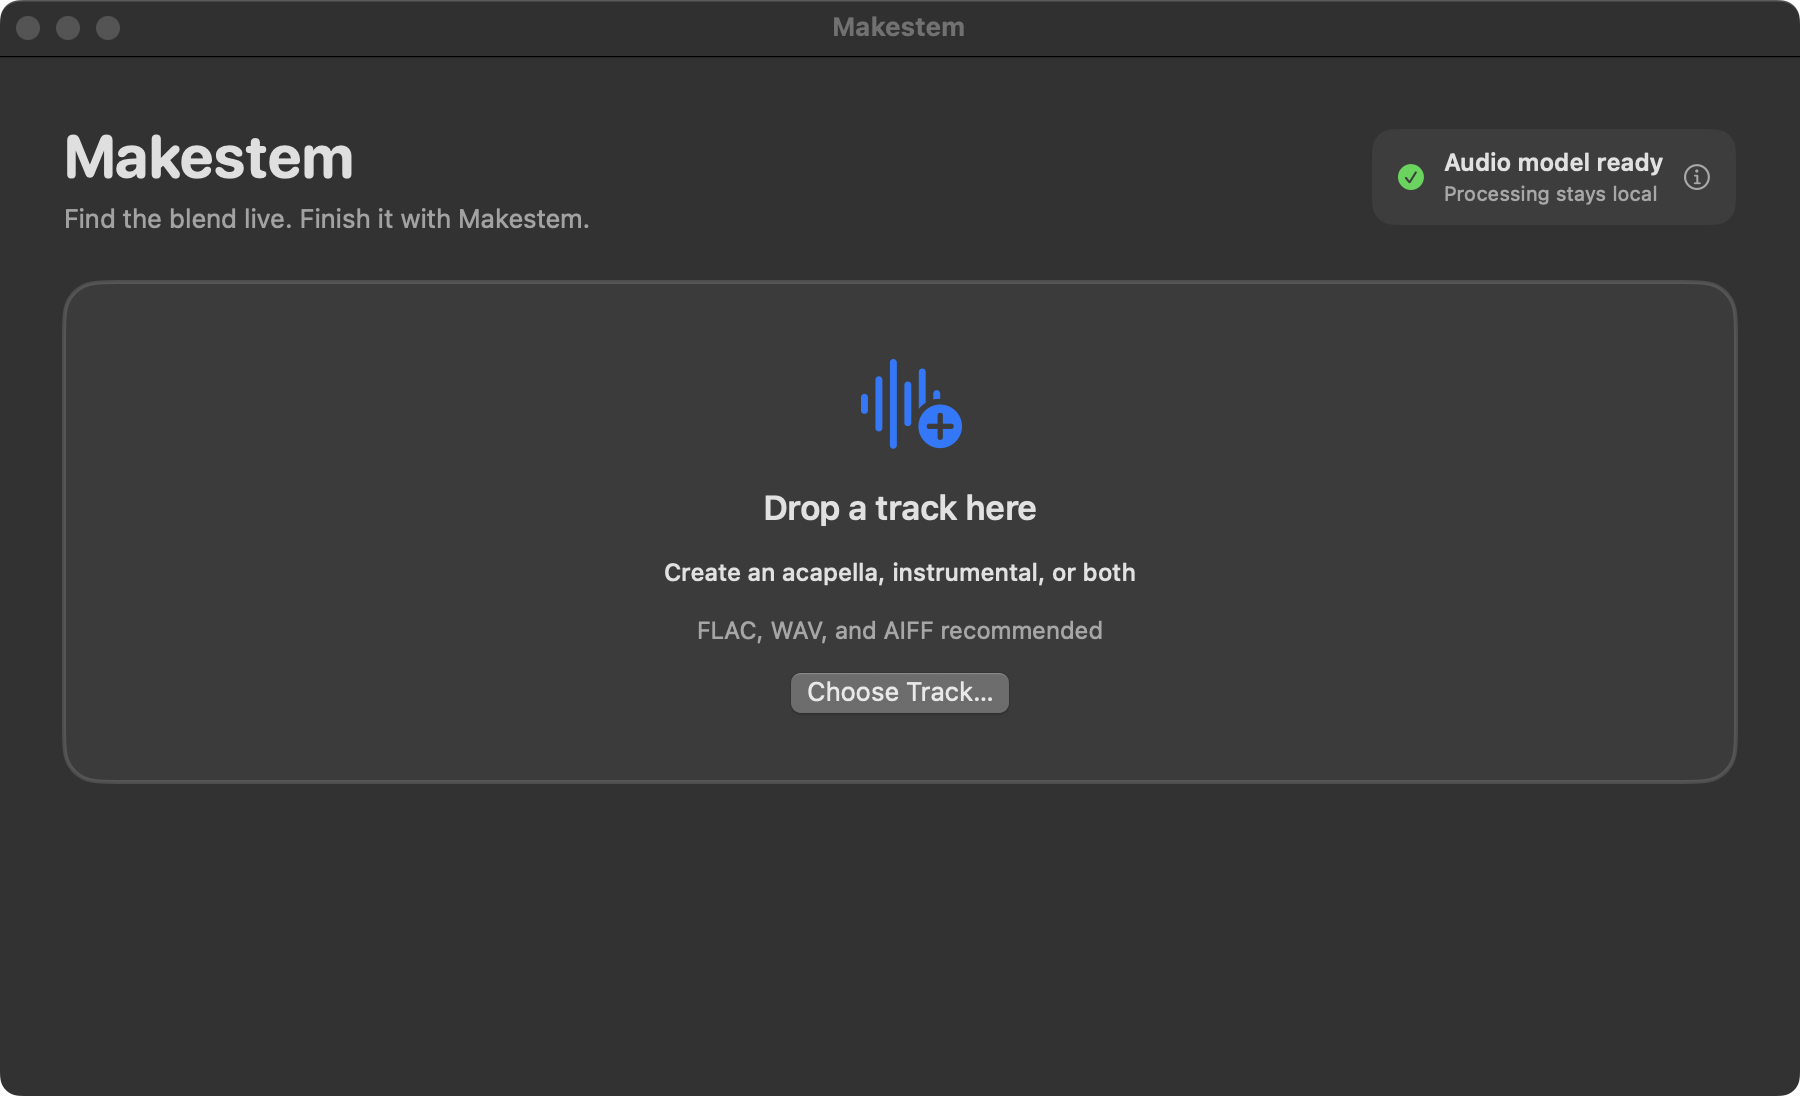
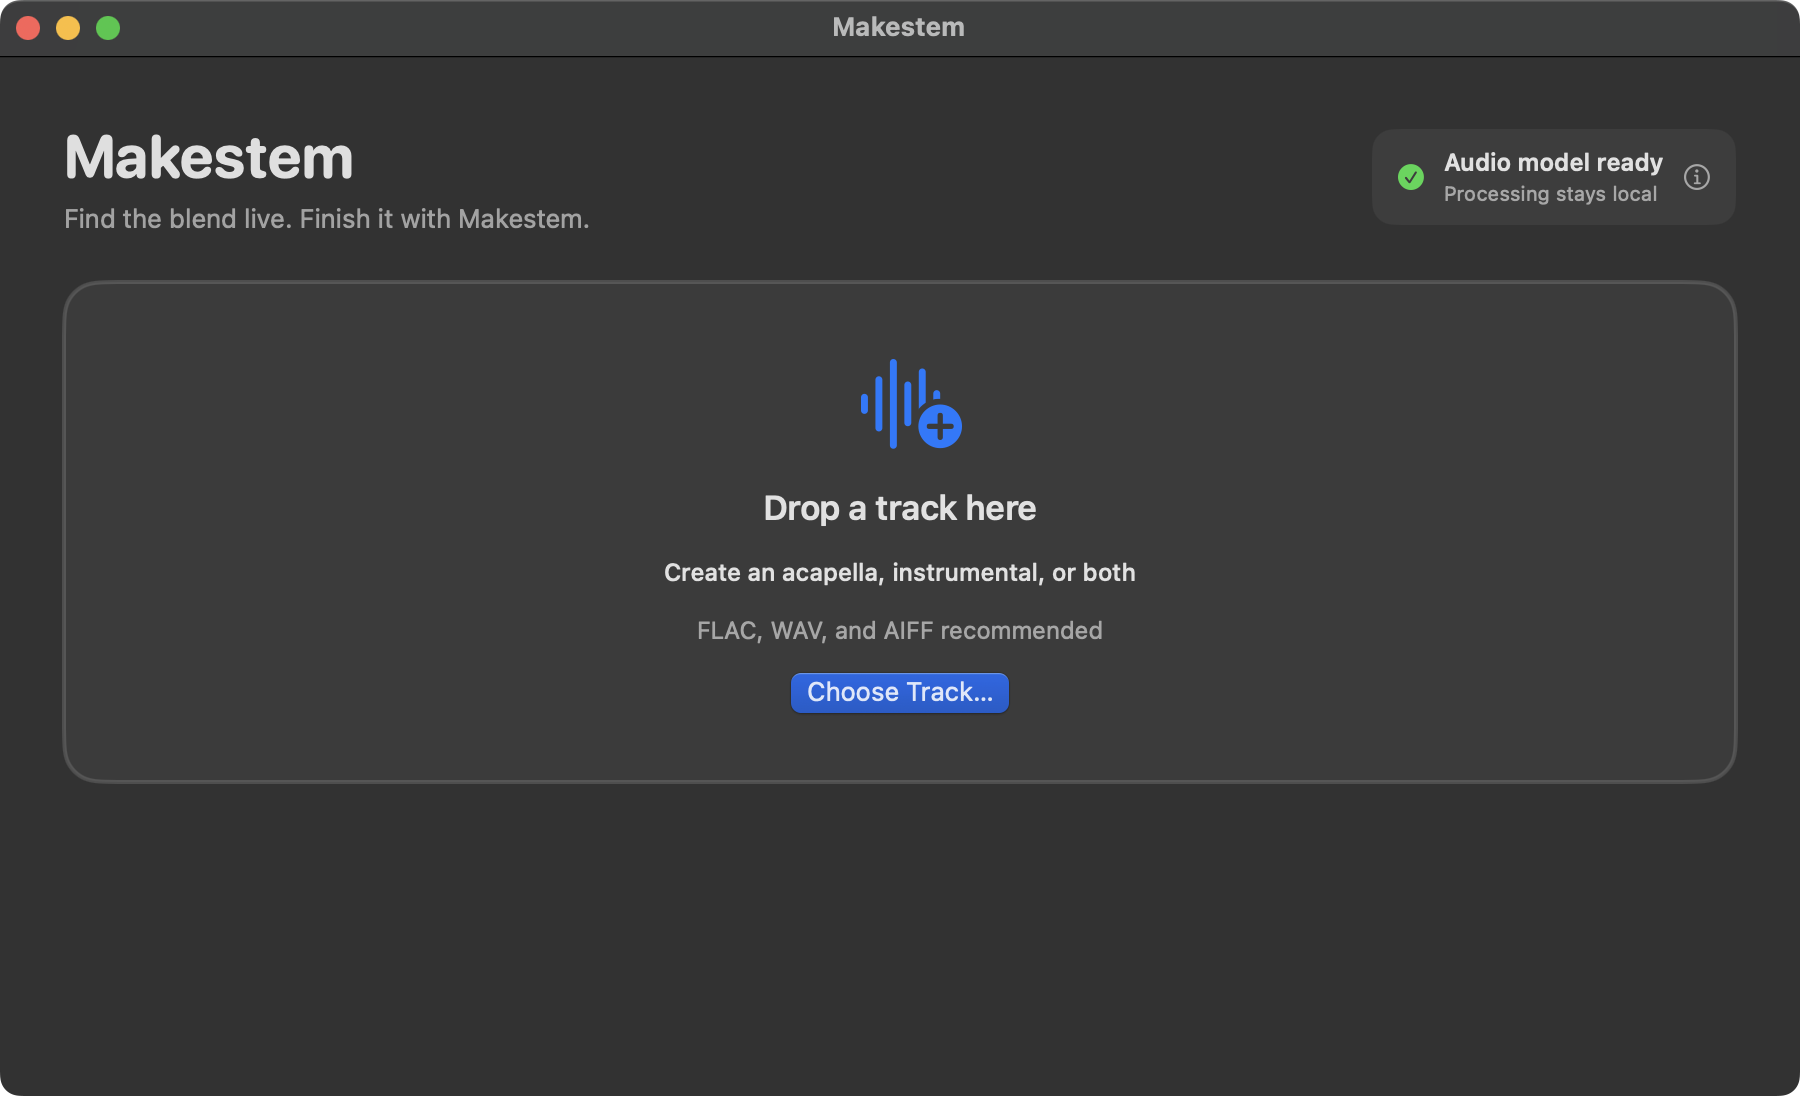
Automate Makestem screenshots
- Add deterministic Debug-only app states
- Capture ready, loaded, and processing windows
- Test and document the screenshot workflow

Changed region(s): [[0.4356, 0.5894, 0.56, 0.6515], [0.4667, 0.0, 0.5289, 0.031], [0.0, 0.0, 0.0622, 0.031]]

diff --git a/macos/MakestemApp.swift b/macos/MakestemApp.swift
@@ -67,11 +67,11 @@ struct ProcessingStatus: Sendable {
     var progressStartedAt: Date?
     var progressBaseline: Int?
 
-    init(stage: String) {
+    init(stage: String, percent: Int? = nil, startedAt: Date = .now) {
         self.stage = stage
-        self.percent = nil
-        self.startedAt = Date()
-        self.phaseStartedAt = Date()
+        self.percent = percent
+        self.startedAt = startedAt
+        self.phaseStartedAt = startedAt
     }
 
     func estimatedRemaining(at now: Date) -> TimeInterval? {
@@ -88,13 +88,24 @@ struct ProcessingStatus: Sendable {
 
 @MainActor
 final class AppModel: ObservableObject {
-    @Published var state: ScreenState = .empty
-    @Published var modelState: ModelState = Engine.modelIsReady ? .ready : .missing
+    @Published var state: ScreenState
+    @Published var modelState: ModelState
     @Published var outputChoice: OutputChoice = .both
     @Published var isDropTarget = false
+    let isScreenshotMode: Bool
     private var currentOperation: EventOperation?
     private var currentOperationID: UUID?
     private var inspectionID: UUID?
+
+    init(
+        state: ScreenState = .empty,
+        modelState: ModelState? = nil,
+        isScreenshotMode: Bool = false
+    ) {
+        self.state = state
+        self.modelState = modelState ?? (Engine.modelIsReady ? .ready : .missing)
+        self.isScreenshotMode = isScreenshotMode
+    }
 
     var isDownloadingModel: Bool {
         if case .downloading = modelState { return true }
@@ -529,9 +540,13 @@ struct AppError: LocalizedError {
 
 struct ContentView: View {
     @Environment(\.accessibilityReduceMotion) private var reduceMotion
-    @StateObject private var model = AppModel()
+    @StateObject private var model: AppModel
     @State private var showsModelInfo = false
     @State private var replacementRequest: ReplacementRequest?
+
+    init(model: AppModel) {
+        _model = StateObject(wrappedValue: model)
+    }
 
     var body: some View {
         VStack(spacing: 24) {
@@ -557,8 +572,8 @@ struct ContentView: View {
         .padding(32)
         .frame(minWidth: 620, idealWidth: 680, minHeight: 520, idealHeight: 600)
         .background(Color(nsColor: .windowBackgroundColor))
-        .animation(reduceMotion ? nil : .smooth(duration: 0.3), value: modelPhase)
-        .animation(reduceMotion ? nil : .smooth(duration: 0.3), value: screenPhase)
+        .animation(reduceMotion || model.isScreenshotMode ? nil : .smooth(duration: 0.3), value: modelPhase)
+        .animation(reduceMotion || model.isScreenshotMode ? nil : .smooth(duration: 0.3), value: screenPhase)
         .alert(
             "Replace existing files?",
             isPresented: Binding(
@@ -920,10 +935,67 @@ private struct ReplacementRequest: Identifiable {
     let outputs: [URL]
 }
 
+#if DEBUG
+extension AppModel {
+    static func screenshotModel(arguments: [String]) -> AppModel? {
+        guard let option = arguments.firstIndex(of: "--screenshot-state"),
+              arguments.indices.contains(option + 1) else { return nil }
+
+        let inspection = Inspection(
+            path: "/Music/Midnight Drive.mp3",
+            artist: "Example Artist",
+            title: "Midnight Drive",
+            format: "MP3",
+            codec: "mp3",
+            durationSeconds: 252,
+            sampleRate: 44_100,
+            channels: 2,
+            bitDepth: nil,
+            lossless: false,
+            sourceBitrateKbps: 192,
+            sourceVbr: false,
+            outputQuality: "192 kbps MP3",
+            readiness: "warning",
+            message: "Compressed source. Makestem can process it, but a lossless source may produce cleaner stems."
+        )
+
+        let state: ScreenState
+        switch arguments[option + 1] {
+        case "ready":
+            state = .empty
+        case "loaded-compressed":
+            state = .inspected(inspection)
+        case "processing":
+            state = .processing(
+                inspection,
+                ProcessingStatus(
+                    stage: "Separating audio • Segment 3 of 8",
+                    percent: 42,
+                    startedAt: .distantFuture
+                )
+            )
+        default:
+            return nil
+        }
+        return AppModel(state: state, modelState: .ready, isScreenshotMode: true)
+    }
+}
+#endif
+
 @main
 struct MakestemApp: App {
+    private let model: AppModel
+
+    init() {
+        #if DEBUG
+        model = AppModel.screenshotModel(arguments: CommandLine.arguments) ?? AppModel()
+        #else
+        model = AppModel()
+        #endif
+    }
+
     var body: some Scene {
-        WindowGroup { ContentView() }
+        WindowGroup { ContentView(model: model) }
             .windowResizability(.contentSize)
     }
 }

diff --git a/macos/MakestemTests/MakestemTests.swift b/macos/MakestemTests/MakestemTests.swift
@@ -2,6 +2,41 @@ import XCTest
 @testable import Makestem
 
 final class MakestemTests: XCTestCase {
+    @MainActor
+    func testScreenshotStatesAreDeterministicAndOptIn() {
+        XCTAssertNil(AppModel.screenshotModel(arguments: ["Makestem"]))
+        XCTAssertNil(
+            AppModel.screenshotModel(
+                arguments: ["Makestem", "--screenshot-state", "unknown"]
+            )
+        )
+
+        let ready = AppModel.screenshotModel(
+            arguments: ["Makestem", "--screenshot-state", "ready"]
+        )
+        XCTAssertTrue(ready?.isScreenshotMode == true)
+        XCTAssertTrue(ready?.canSelectTrack == true)
+        guard case .empty = ready?.state else {
+            return XCTFail("Expected the ready screenshot state")
+        }
+
+        let loaded = AppModel.screenshotModel(
+            arguments: ["Makestem", "--screenshot-state", "loaded-compressed"]
+        )
+        guard case .inspected(let inspection) = loaded?.state else {
+            return XCTFail("Expected the loaded screenshot state")
+        }
+        XCTAssertEqual(inspection.displayTitle, "Example Artist — Midnight Drive")
+
+        let processing = AppModel.screenshotModel(
+            arguments: ["Makestem", "--screenshot-state", "processing"]
+        )
+        guard case .processing(_, let status) = processing?.state else {
+            return XCTFail("Expected the processing screenshot state")
+        }
+        XCTAssertEqual(status.percent, 42)
+    }
+
     func testTrackDisplayTitleGracefullyHandlesMissingArtist() throws {
         let base = #"{"path":"/Music/Track.flac","title":"Track","format":"FLAC","codec":"flac","duration_seconds":120,"sample_rate":44100,"channels":2,"bit_depth":24,"lossless":true,"source_bitrate_kbps":null,"source_vbr":null,"output_quality":"320 kbps MP3","readiness":"ready","message":"Ready"}"#
         let withArtist = base.replacingOccurrences(

diff --git a/README.md b/README.md
@@ -142,6 +142,17 @@ MAKESTEM_SMOKE_TRACK="/path/to/short-test.flac" \
 ./scripts/test-all.sh
 ```
 
+Regenerate the ready, loaded-track, and processing screenshots used for
+documentation and releases:
+
+```sh
+./scripts/capture-screenshots.sh
+```
+
+macOS must allow Screen & System Audio Recording for the terminal or editor
+running the script. Screenshot mode is available only in development builds;
+it uses fictional track details and never processes audio or writes stems.
+
 ## Create a direct-download release
 
 Releases use a locally installed **Developer ID Application** certificate and a
